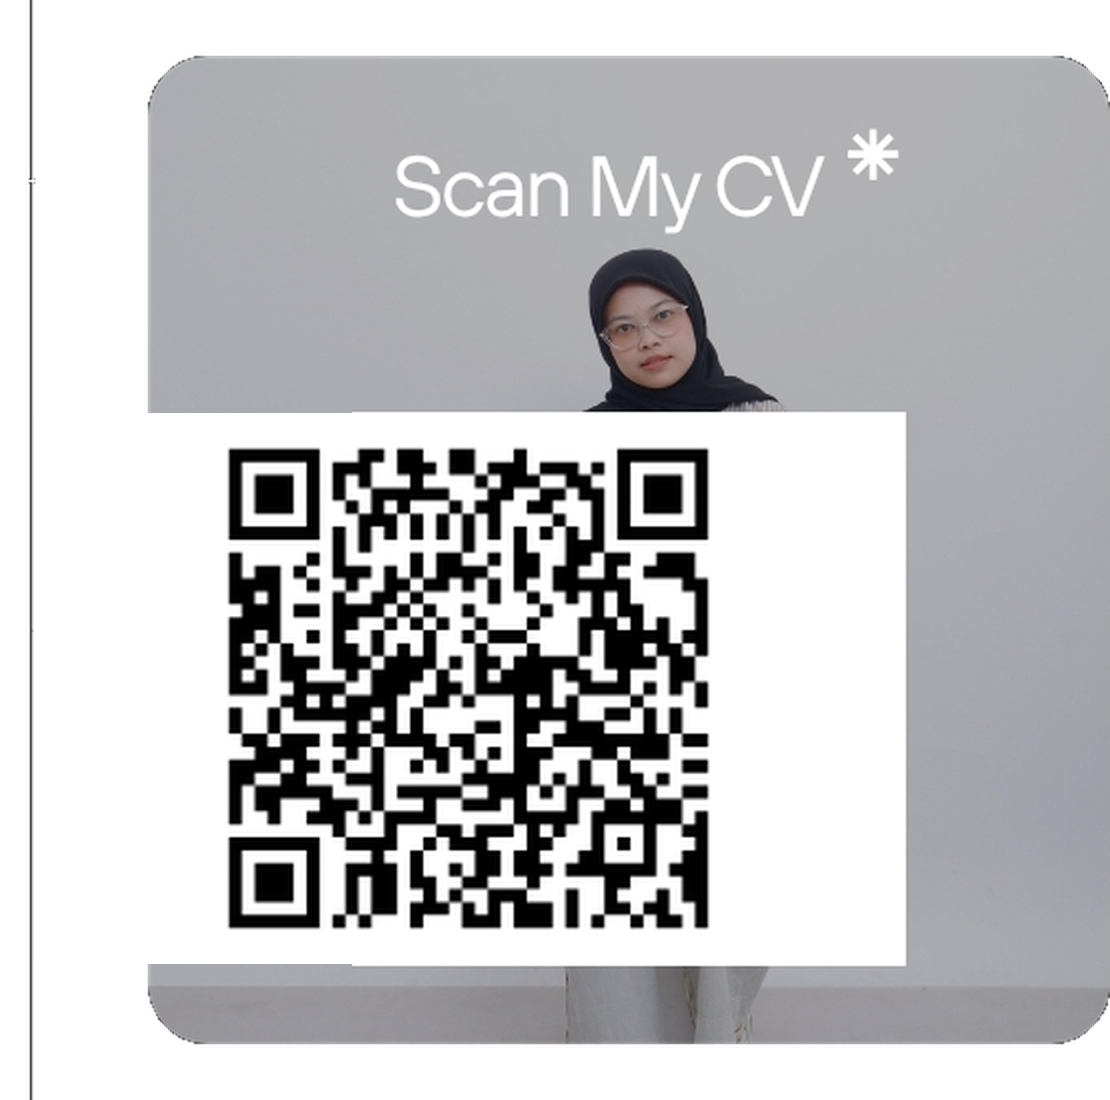
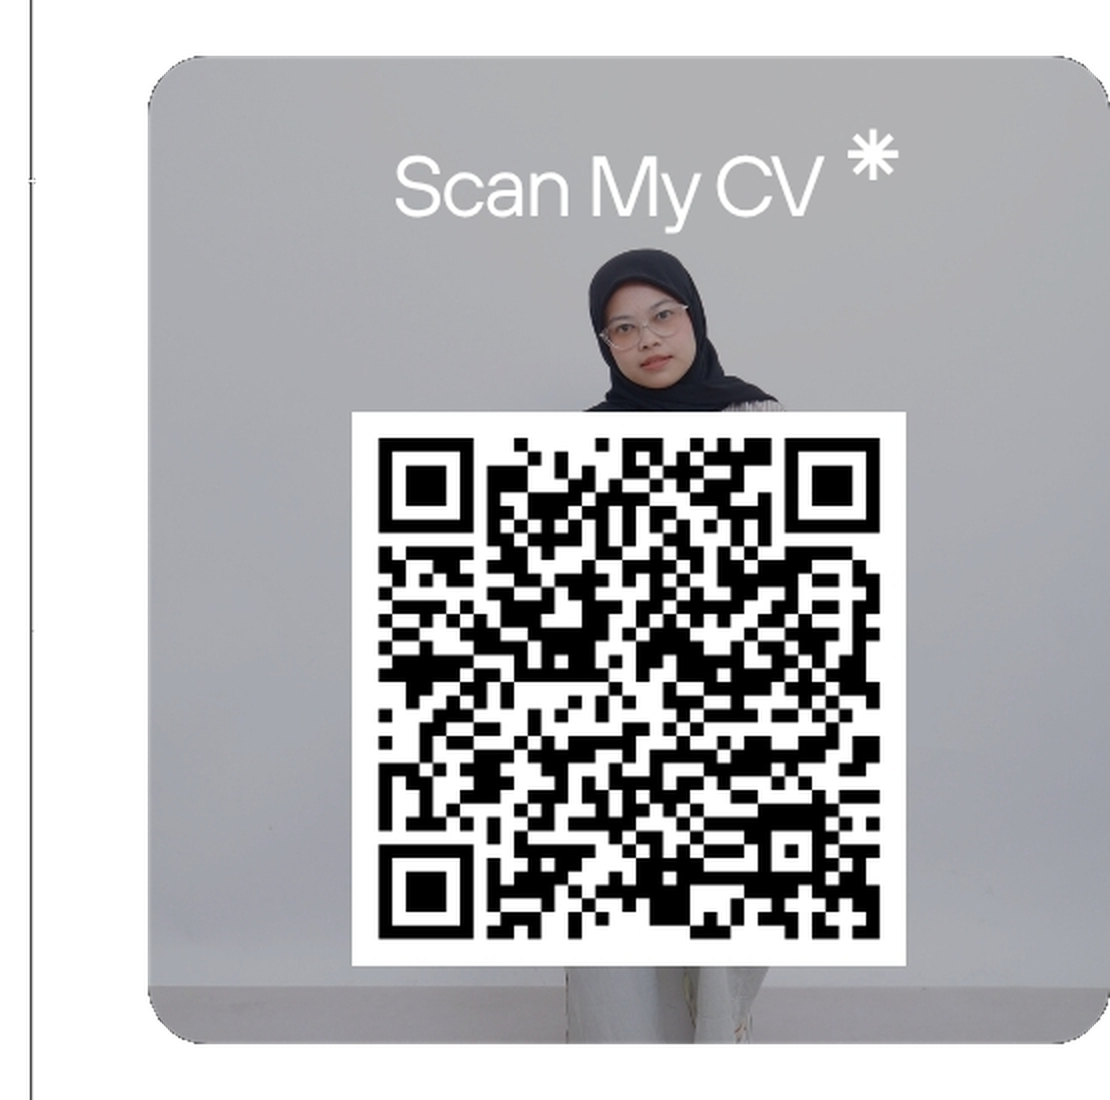
Remove QR code and Scan My CV from contact section

Changed region(s): [[0.1225, 0.3709, 0.7964, 0.8964]]

diff --git a/index.html b/index.html
@@ -844,10 +844,12 @@
     <div class="container">
       <div class="contact-grid">
         
-        <!-- Left: Scan My CV QR Card -->
+        <!-- Left: Scan My CV QR Card (hidden) -->
+        <!--
         <div class="contact-qr-card reveal-left" onclick="openLightbox(this)" title="Scan My CV">
           <img src="contact_qr_card.png" alt="Scan My CV QR Code" loading="lazy">
         </div>
+        -->
 
         <!-- Center: Thank You & My Contact Info -->
         <div class="contact-center reveal">
